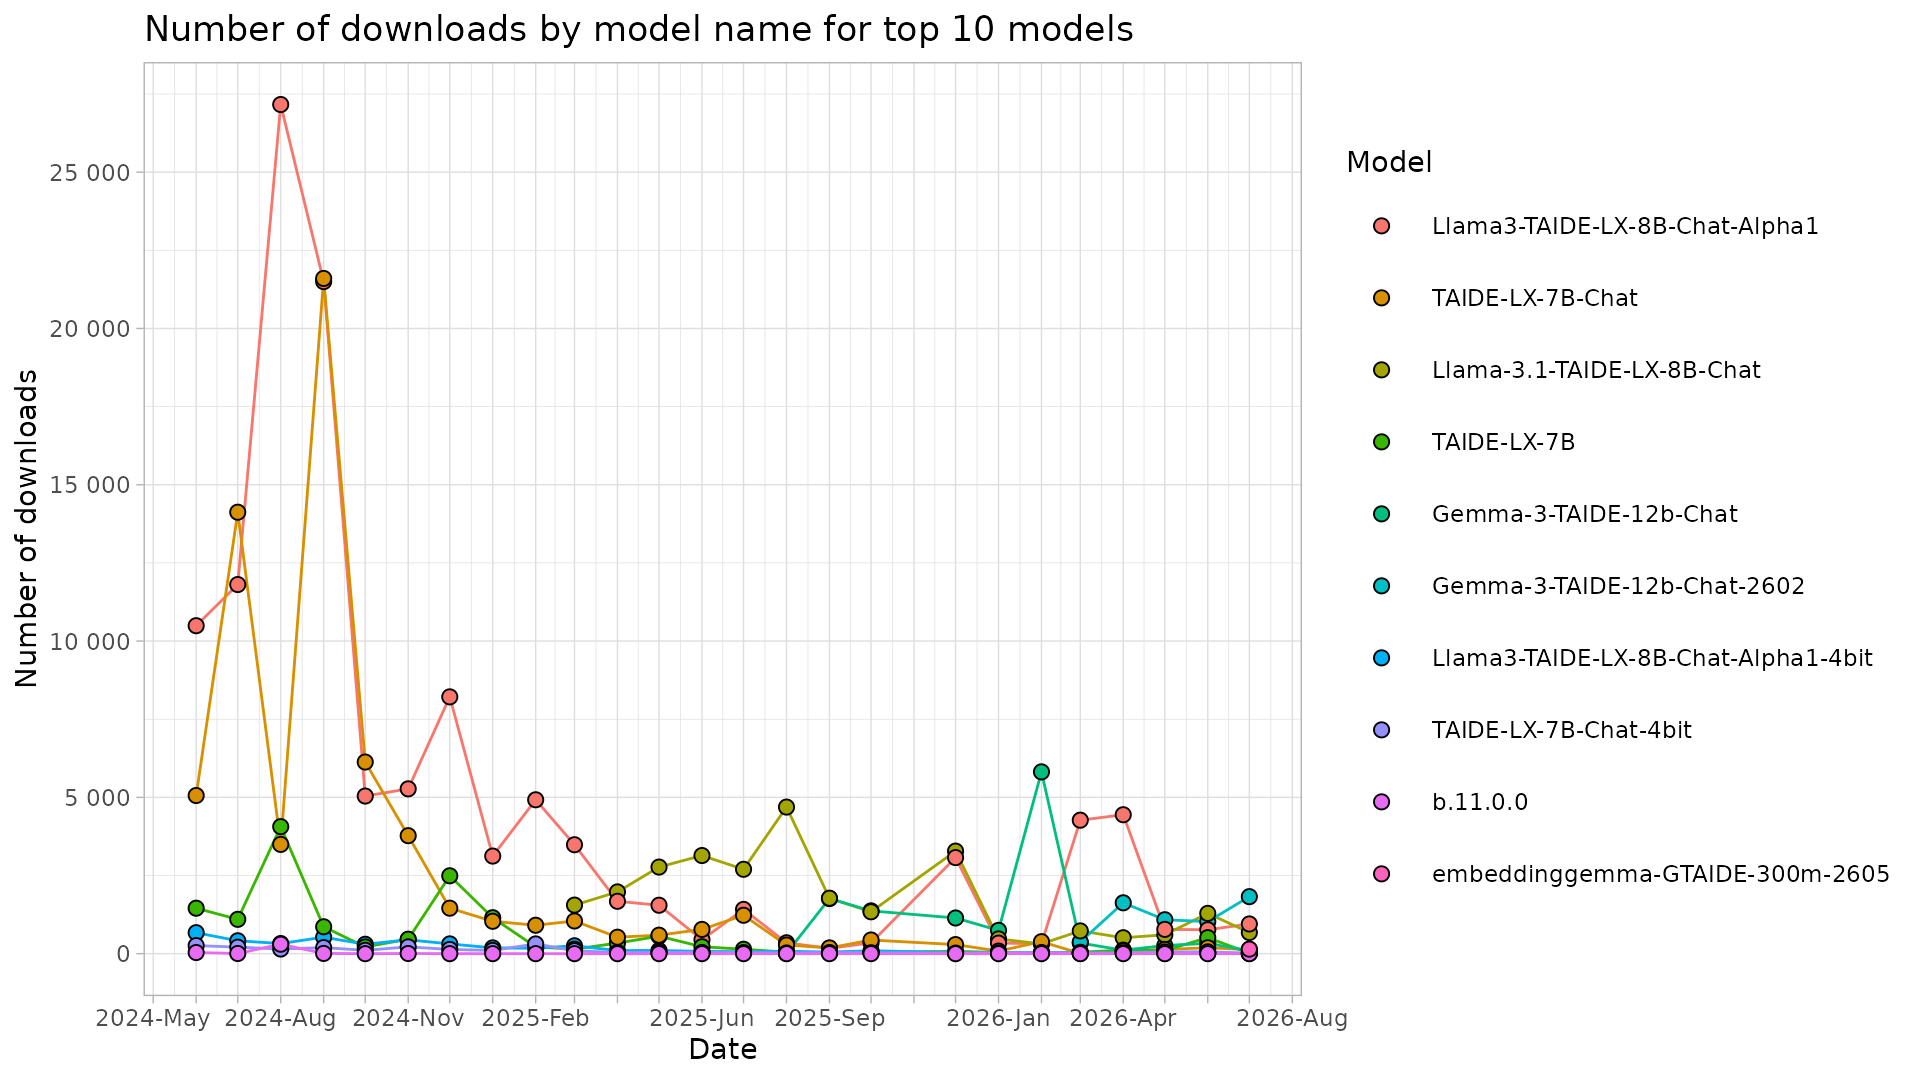
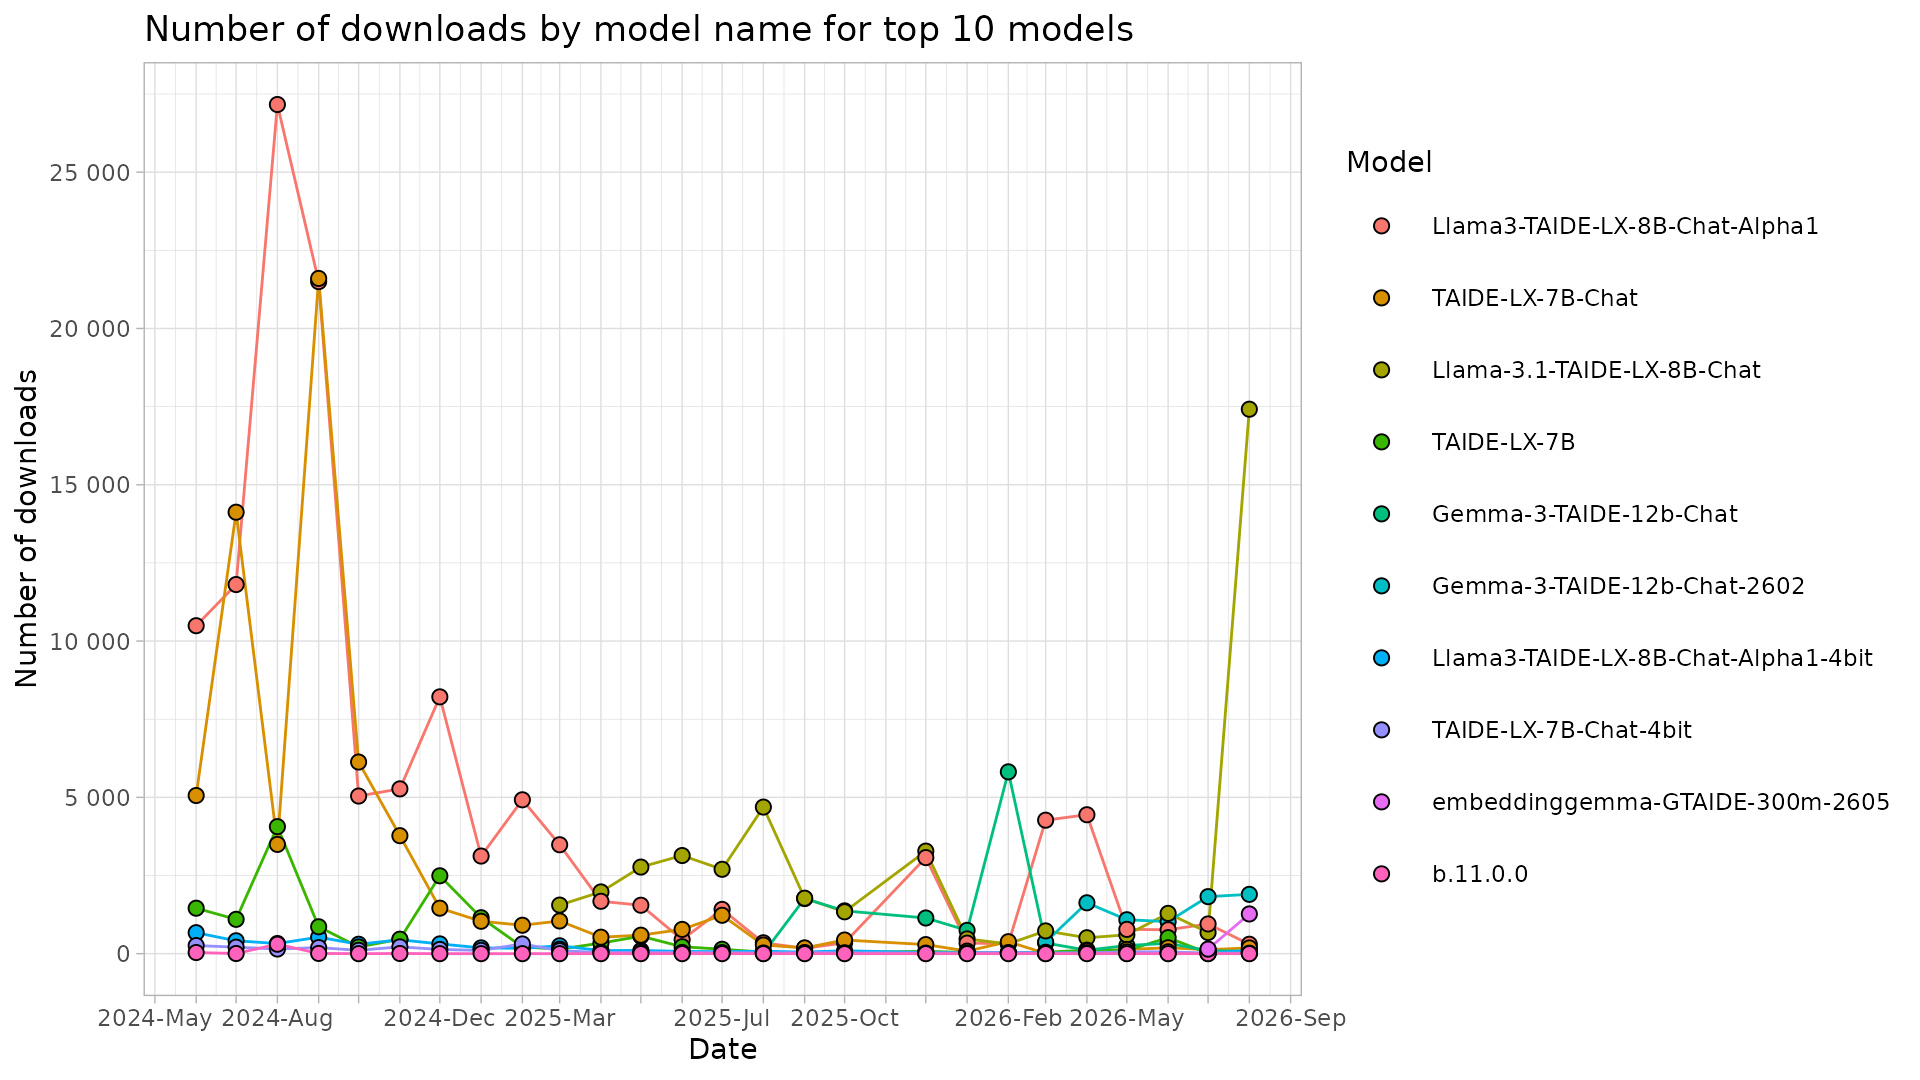
updata

diff --git a/README.md b/README.md
@@ -11,19 +11,19 @@ Script is run monthly, and a monthly `csv`-file outputted to `/data` folder.
 !["Huggingface downloads by model plot."](https://github.com/nctu6/huggingface_stats/blob/main/plots/downloads_by_model.jpg)
 
 ## Table of downloads
-|model_name                          | downloadsAllTime| 2026-07| 2026-06| 2026-05| 2026-04| 2026-03| 2026-02| 2026-01| 2025-12| 2025-10| 2025-09| 2025-08| 2025-07| 2025-06| 2025-05| 2025-04| 2025-03| 2025-02| 2025-01| 2024-12| 2024-11| 2024-10| 2024-09| 2024-08| 2024-07| 2024-06|
-|:-----------------------------------|----------------:|-------:|-------:|-------:|-------:|-------:|-------:|-------:|-------:|-------:|-------:|-------:|-------:|-------:|-------:|-------:|-------:|-------:|-------:|-------:|-------:|-------:|-------:|-------:|-------:|-------:|
-|Llama3-TAIDE-LX-8B-Chat-Alpha1      |           121905|     950|     765|     777|    4444|    4270|     319|     337|    3073|     346|     171|     348|    1416|     446|    1549|    1675|    3484|    4922|    3122|    8215|    5272|    5042|   21499|   27164|   11808|   10491|
-|TAIDE-LX-7B-Chat                    |            63946|     129|     188|     135|      87|       8|     383|      82|     290|     437|     184|     276|    1228|     776|     591|     527|    1045|     909|    1036|    1455|    3774|    6130|   21600|    3495|   14122|    5059|
-|Llama-3.1-TAIDE-LX-8B-Chat          |            27808|     676|    1289|     602|     509|     728|     313|     471|    3281|    1339|    1774|    4689|    2699|    3139|    2770|    1975|    1554|       0|       0|       0|       0|       0|       0|       0|       0|       0|
-|TAIDE-LX-7B                         |            14456|      16|     512|     102|     113|      45|      26|      39|      73|      42|      27|      48|     141|     222|     558|     338|     145|     215|    1150|    2491|     463|     215|     860|    4063|    1098|    1454|
-|Gemma-3-TAIDE-12b-Chat              |            11979|      93|     331|     260|     111|     340|    5816|     745|    1141|    1369|    1763|      10|       0|       0|       0|       0|       0|       0|       0|       0|       0|       0|       0|       0|       0|       0|
-|Gemma-3-TAIDE-12b-Chat-2602         |             5933|    1824|    1025|    1085|    1627|     372|       0|       0|       0|       0|       0|       0|       0|       0|       0|       0|       0|       0|       0|       0|       0|       0|       0|       0|       0|       0|
-|Llama3-TAIDE-LX-8B-Chat-Alpha1-4bit |             4337|      13|      14|       8|      20|      22|      40|      28|      37|      92|      51|      76|      63|      72|     102|      99|     252|     172|     185|     312|     444|     301|     527|     324|     412|     671|
-|TAIDE-LX-7B-Chat-4bit               |             2267|      14|      59|      57|      27|      17|      36|      24|      18|      29|      37|      22|      34|      39|      40|      37|      94|     311|     104|     135|     217|     107|     194|     148|     208|     259|
-|b.11.0.0                            |              355|       0|       0|       0|       0|       0|       0|       0|       0|       0|       0|       0|       0|       0|       0|       0|       0|       0|       0|       0|       5|       0|       7|     302|       5|      36|
-|embeddinggemma-GTAIDE-300m-2605     |              145|     145|       0|       0|       0|       0|       0|       0|       0|       0|       0|       0|       0|       0|       0|       0|       0|       0|       0|       0|       0|       0|       0|       0|       0|       0|
-|llava_llama3_8b_clip336_e           |              115|       0|       0|       0|       0|       0|       0|       0|       0|       0|       0|       0|       0|       0|       0|       0|       0|       0|       0|       0|       0|      81|      34|       0|       0|       0|
-|a.2.0.0                             |               24|       0|       0|       0|       0|       0|       0|       0|       0|       0|       0|       0|       0|       0|       0|       0|       0|       0|       0|       0|       0|       0|       0|       0|       0|      24|
-|e.1.1.0                             |               19|       0|       0|       0|       0|       0|       0|       0|       0|       0|       0|       0|       0|       0|       0|       0|       0|       0|       0|       0|       0|       0|       0|       5|       0|      14|
-|b.1.0.0                             |               15|       0|       0|       0|       0|       0|       0|       0|       0|       0|       0|       0|       0|       0|       0|       0|       0|       0|       0|       0|       0|       0|       0|       0|      15|       0|
+|model_name                          | downloadsAllTime| 2026-08| 2026-07| 2026-06| 2026-05| 2026-04| 2026-03| 2026-02| 2026-01| 2025-12| 2025-10| 2025-09| 2025-08| 2025-07| 2025-06| 2025-05| 2025-04| 2025-03| 2025-02| 2025-01| 2024-12| 2024-11| 2024-10| 2024-09| 2024-08| 2024-07| 2024-06|
+|:-----------------------------------|----------------:|-------:|-------:|-------:|-------:|-------:|-------:|-------:|-------:|-------:|-------:|-------:|-------:|-------:|-------:|-------:|-------:|-------:|-------:|-------:|-------:|-------:|-------:|-------:|-------:|-------:|-------:|
+|Llama3-TAIDE-LX-8B-Chat-Alpha1      |           122206|     301|     950|     765|     777|    4444|    4270|     319|     337|    3073|     346|     171|     348|    1416|     446|    1549|    1675|    3484|    4922|    3122|    8215|    5272|    5042|   21499|   27164|   11808|   10491|
+|TAIDE-LX-7B-Chat                    |            64129|     183|     129|     188|     135|      87|       8|     383|      82|     290|     437|     184|     276|    1228|     776|     591|     527|    1045|     909|    1036|    1455|    3774|    6130|   21600|    3495|   14122|    5059|
+|Llama-3.1-TAIDE-LX-8B-Chat          |            45225|   17417|     676|    1289|     602|     509|     728|     313|     471|    3281|    1339|    1774|    4689|    2699|    3139|    2770|    1975|    1554|       0|       0|       0|       0|       0|       0|       0|       0|       0|
+|TAIDE-LX-7B                         |            14482|      26|      16|     512|     102|     113|      45|      26|      39|      73|      42|      27|      48|     141|     222|     558|     338|     145|     215|    1150|    2491|     463|     215|     860|    4063|    1098|    1454|
+|Gemma-3-TAIDE-12b-Chat              |            12056|      77|      93|     331|     260|     111|     340|    5816|     745|    1141|    1369|    1763|      10|       0|       0|       0|       0|       0|       0|       0|       0|       0|       0|       0|       0|       0|       0|
+|Gemma-3-TAIDE-12b-Chat-2602         |             7830|    1897|    1824|    1025|    1085|    1627|     372|       0|       0|       0|       0|       0|       0|       0|       0|       0|       0|       0|       0|       0|       0|       0|       0|       0|       0|       0|       0|
+|Llama3-TAIDE-LX-8B-Chat-Alpha1-4bit |             4440|     103|      13|      14|       8|      20|      22|      40|      28|      37|      92|      51|      76|      63|      72|     102|      99|     252|     172|     185|     312|     444|     301|     527|     324|     412|     671|
+|TAIDE-LX-7B-Chat-4bit               |             2281|      14|      14|      59|      57|      27|      17|      36|      24|      18|      29|      37|      22|      34|      39|      40|      37|      94|     311|     104|     135|     217|     107|     194|     148|     208|     259|
+|embeddinggemma-GTAIDE-300m-2605     |             1415|    1270|     145|       0|       0|       0|       0|       0|       0|       0|       0|       0|       0|       0|       0|       0|       0|       0|       0|       0|       0|       0|       0|       0|       0|       0|       0|
+|b.11.0.0                            |              355|       0|       0|       0|       0|       0|       0|       0|       0|       0|       0|       0|       0|       0|       0|       0|       0|       0|       0|       0|       0|       5|       0|       7|     302|       5|      36|
+|llava_llama3_8b_clip336_e           |              115|       0|       0|       0|       0|       0|       0|       0|       0|       0|       0|       0|       0|       0|       0|       0|       0|       0|       0|       0|       0|       0|      81|      34|       0|       0|       0|
+|a.2.0.0                             |               24|       0|       0|       0|       0|       0|       0|       0|       0|       0|       0|       0|       0|       0|       0|       0|       0|       0|       0|       0|       0|       0|       0|       0|       0|       0|      24|
+|e.1.1.0                             |               19|       0|       0|       0|       0|       0|       0|       0|       0|       0|       0|       0|       0|       0|       0|       0|       0|       0|       0|       0|       0|       0|       0|       0|       5|       0|      14|
+|b.1.0.0                             |               15|       0|       0|       0|       0|       0|       0|       0|       0|       0|       0|       0|       0|       0|       0|       0|       0|       0|       0|       0|       0|       0|       0|       0|       0|      15|       0|
